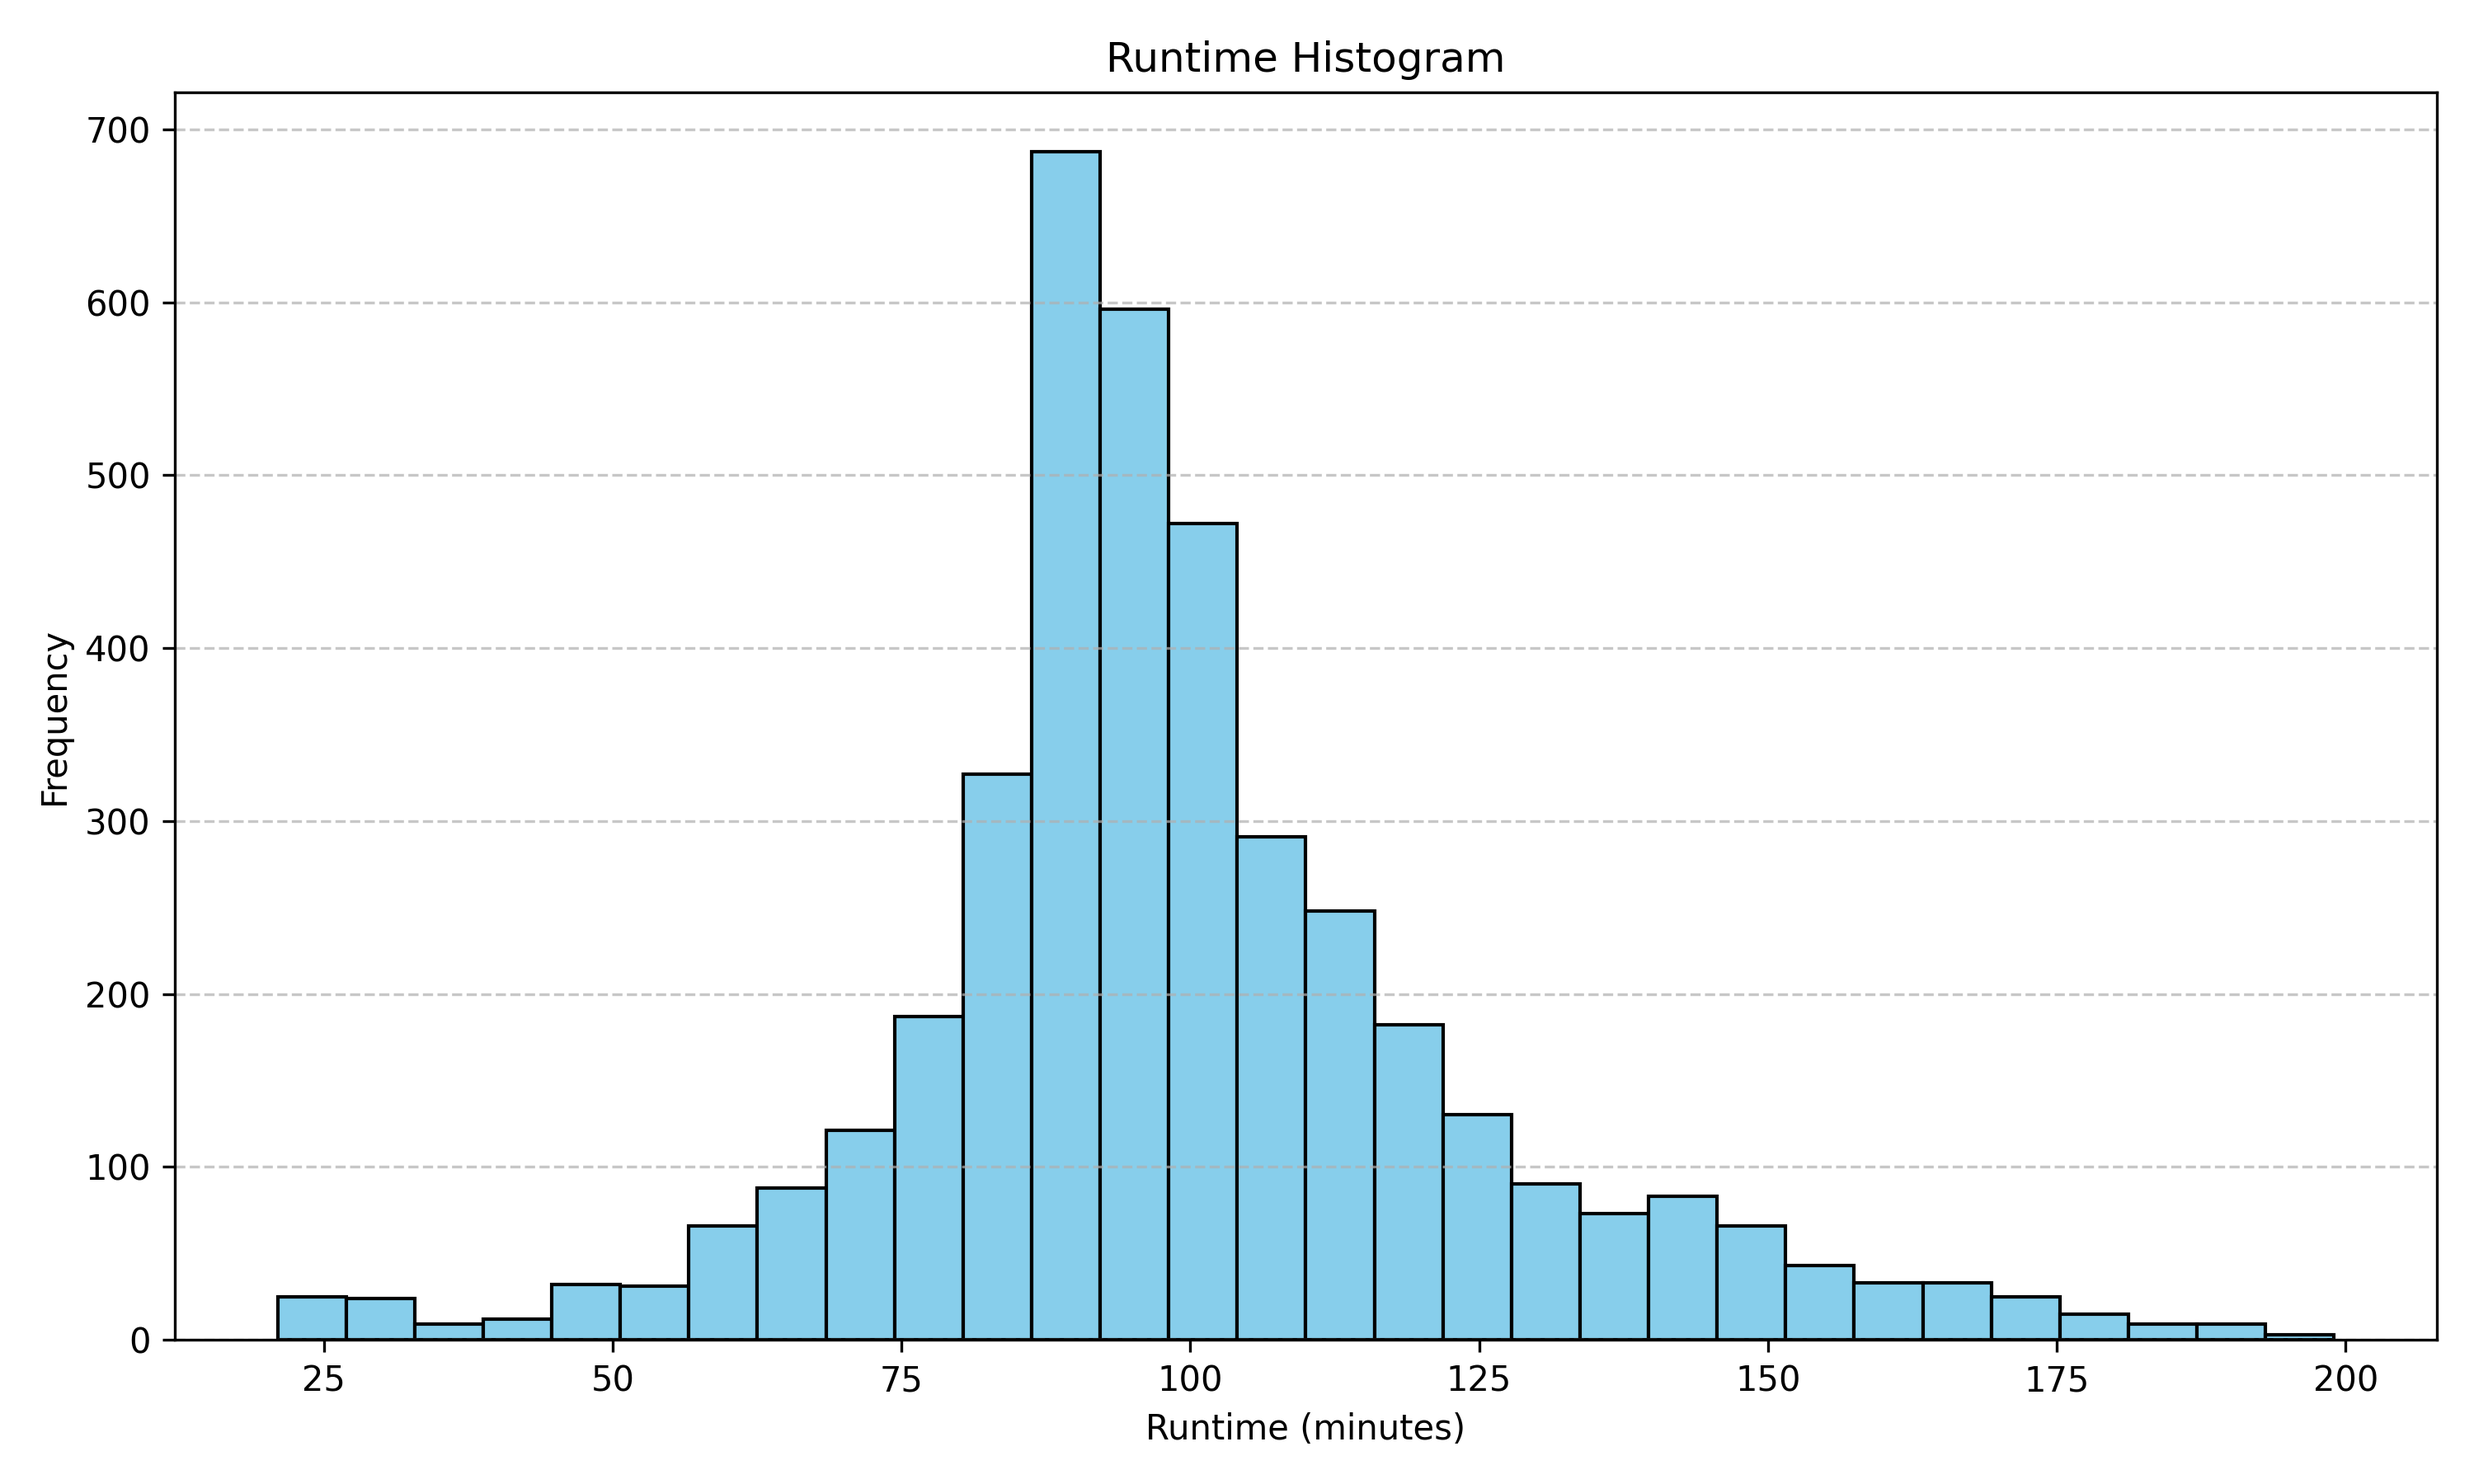
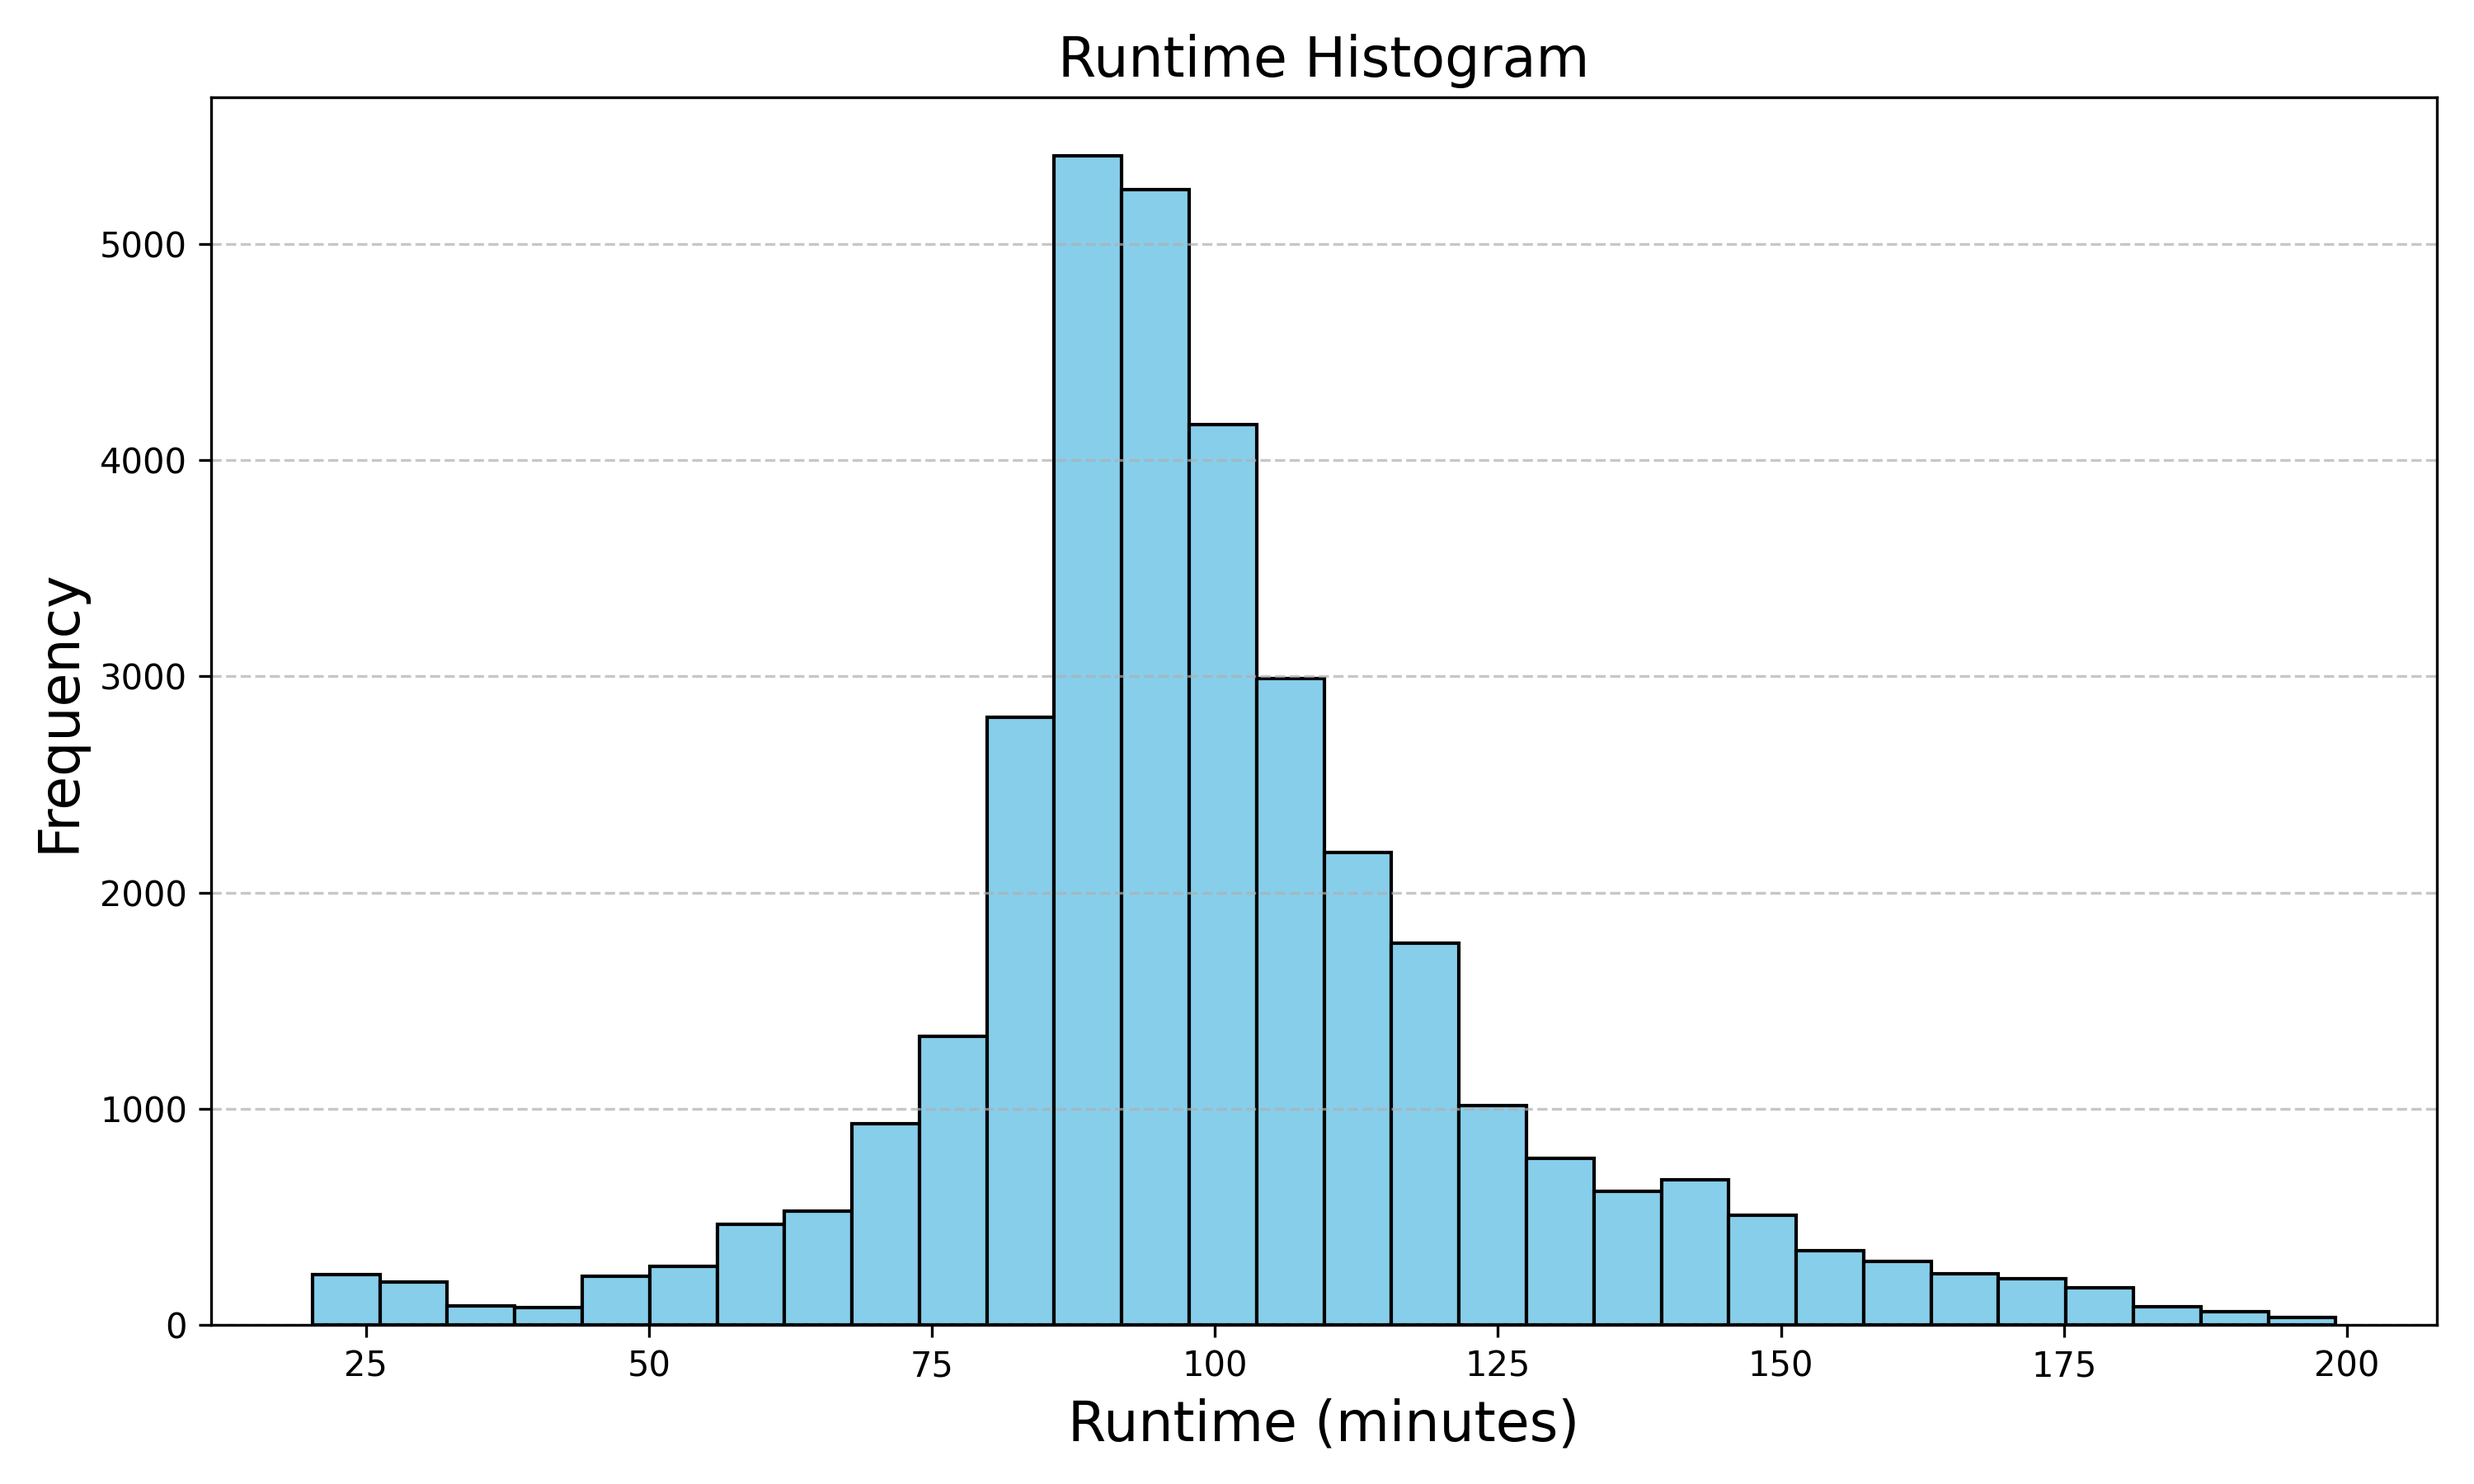
update

Changed region(s): [[0.0, 0.0311, 0.992, 0.9956]]

diff --git a/src/data_process/stat_plot.py b/src/data_process/stat_plot.py
@@ -6,6 +6,15 @@ import re
 from collections import Counter
 from pathlib import Path
 
+STOPWORDS=[
+    "the", "a", "an", "of", "in", "on", "at", "for", "to", "and", "or", "is",
+    "are", "was", "were", "be", "been", "being", "with", "by", "from", "as",
+    "that", "this", "it", "its", "into", "about", "after", "before", "over",
+    "under", "up", "down", "out", "through", "but", "so", "if", "then", "than",
+    "there", "here", "him", "her", "his", "hers", "they", "them", "their",
+    "we", "us", "our", "you", "your", "i", "me", "my"
+]
+
 def word_cloud(
     data
 ):
@@ -28,7 +37,7 @@ def word_cloud(
         width=width,
         height=height,
         max_words=max_words,
-        stopwords=None, 
+        stopwords=STOPWORDS, 
         collocations=False
     ).generate(combined_text)
 
@@ -36,16 +45,17 @@ def word_cloud(
     plt.imshow(wc, interpolation="bilinear")
     plt.axis("off")
     plt.tight_layout()
-    plt.savefig(f"{PLOT_DIR}/wordcloud.png")
+    plt.savefig(f"{FIG_DIR}/wordcloud.png")
 
 
 def summ_len_hist(data, bins=40, title="Word Count Histogram"):
     summary_list=[x['summary'] for x in data]
     raw_word_counts = [len(s.split(" ")) for s in summary_list]
-    word_counts = []
-    for x in raw_word_counts:
-        if x<=MAX_WORDS and x>=MIN_WORDS:
-            word_counts.append(x)
+    word_counts = raw_word_counts
+    # word_counts = []
+    # for x in raw_word_counts:
+    #     if x<=MAX_WORDS and x>=MIN_WORDS:
+    #         word_counts.append(x)
             
     print(f"Total valid sentences: {len(word_counts)}")
     print(f"Average word count: {sum(word_counts)/len(word_counts):.2f}")
@@ -53,12 +63,12 @@ def summ_len_hist(data, bins=40, title="Word Count Histogram"):
 
     plt.figure(figsize=(10, 6))
     plt.hist(word_counts, bins=bins, color="skyblue", edgecolor="black")
-    plt.title(title)
-    plt.xlabel("Number of words per string")
-    plt.ylabel("Frequency")
+    plt.title(title,fontsize=16)
+    plt.xlabel("Number of words per string",fontsize=16)
+    plt.ylabel("Frequency",fontsize=16)
     plt.grid(axis="y", linestyle="--", alpha=0.7)
     plt.tight_layout()
-    output_path=f"{PLOT_DIR}/summary_length_histogram.png"
+    output_path=f"{FIG_DIR}/summary_length_histogram.png"
     plt.savefig(output_path, dpi=300)
 
 
@@ -89,7 +99,6 @@ def release_year_hist(data):
     labels = sorted(grouped_counts.keys(), key=lambda x: int(x.split('-')[0]))
     values = [grouped_counts[l] for l in labels]
     title="Release Year Histogram"
-    # 打印统计信息
     print(f"Total entries: {len(strings)}")
     print(f"Valid years: {len(years)}")
     print(f"Range: {min(years)} - {max(years)}")
@@ -98,12 +107,12 @@ def release_year_hist(data):
     plt.figure(figsize=(8, 5))
     plt.bar(labels, values, color="skyblue", edgecolor="black", width=0.8)
     plt.xticks(rotation=45, ha='right')
-    plt.title(title)
-    plt.xlabel("5-Year Range")
-    plt.ylabel("Count")
+    plt.title(title,fontsize=16)
+    plt.xlabel("5-Year Range",fontsize=16)
+    plt.ylabel("Count",fontsize=16)
     plt.grid(axis="y", linestyle="--", alpha=0.7)
     plt.tight_layout()
-    output_path=f"{PLOT_DIR}/release_year_histogram.png"
+    output_path=f"{FIG_DIR}/release_year_histogram.png"
     plt.savefig(output_path, dpi=300)
     
 
@@ -121,15 +130,15 @@ def run_time_hist(data):
     print(f"Total entries: {len(data)}")
     print(f"Valid runtimes: {len(run_times)}")
     print(f"Range: {min(run_times)} - {max(run_times)}")
-
+    
     plt.figure(figsize=(10, 6))
     plt.hist(run_times, bins=30, color="skyblue", edgecolor="black")
-    plt.title("Runtime Histogram")
-    plt.xlabel("Runtime (minutes)")
-    plt.ylabel("Frequency")
+    plt.title("Runtime Histogram",fontsize=16)
+    plt.xlabel("Runtime (minutes)",fontsize=16)
+    plt.ylabel("Frequency",fontsize=16)
     plt.grid(axis="y", linestyle="--", alpha=0.7)
     plt.tight_layout()
-    output_path=f"{PLOT_DIR}/runtime_histogram.png"
+    output_path=f"{FIG_DIR}/runtime_histogram.png"
     plt.savefig(output_path, dpi=300)
 
 
@@ -144,6 +153,24 @@ def genre_hist(data):
 
     print(dict(sorted(info_dict.items(), key=lambda x: x[1], reverse=True)))
 
+    
+    sorted_items = sorted(info_dict.items(), key=lambda x: x[1], reverse=True)[:15]
+    genres = [k for k, v in sorted_items]
+    counts = [v for k, v in sorted_items]
+
+    plt.figure(figsize=(10, 6))
+    plt.bar(genres, counts, color="skyblue", edgecolor="black",)
+
+    plt.xlabel("Genre",fontsize=16)
+    plt.ylabel("Count",fontsize=16)
+    plt.title("Number of Movies per Genre",fontsize=16)
+
+    plt.xticks(rotation=45, ha="right",fontsize=13) 
+    plt.grid(axis="y", linestyle="--", alpha=0.7)
+    plt.tight_layout()    
+
+    output_path=f"{FIG_DIR}/genre_histogram.png"
+    plt.savefig(output_path, dpi=300)
 
 
 def lang_hist(data):
@@ -156,27 +183,66 @@ def lang_hist(data):
                 info_dict[g]=1
 
     print(dict(sorted(info_dict.items(), key=lambda x: x[1], reverse=True)))
+    
+    sorted_items = sorted(info_dict.items(), key=lambda x: x[1], reverse=True)[:15]
+    languages = [k.replace(" Language","") for k, v in sorted_items]
+    counts = [v for k, v in sorted_items]
+
+    plt.figure(figsize=(10, 6))
+    plt.bar(languages, counts, color="skyblue", edgecolor="black",)
+
+    plt.xlabel("Language",fontsize=16)
+    plt.ylabel("Count",fontsize=16)
+    plt.title("Number of Movies per Language",fontsize=16)
+
+    plt.xticks(rotation=45, ha="right",fontsize=13) 
+    plt.grid(axis="y", linestyle="--", alpha=0.7)
+    plt.tight_layout()    
+
+    output_path=f"{FIG_DIR}/language_histogram.png"
+    plt.savefig(output_path, dpi=300)
 
 
 def country_hist(data):
     info_dict={}
     for x in data:
         for g in x["countries"]:
+            if g=="United States of America":
+                g="USA"
             if g in info_dict:
                 info_dict[g]+=1
             else:
                 info_dict[g]=1
 
     print(dict(sorted(info_dict.items(), key=lambda x: x[1], reverse=True)))
+    
+    sorted_items = sorted(info_dict.items(), key=lambda x: x[1], reverse=True)[:15]
+    countries = [k for k, v in sorted_items]
+    counts = [v for k, v in sorted_items]
+
+    plt.figure(figsize=(10, 6))
+    plt.bar(countries, counts, color="skyblue", edgecolor="black",)
+
+    plt.xlabel("Country",fontsize=16)
+    plt.ylabel("Count",fontsize=16)
+    plt.title("Number of Movies per Country",fontsize=16)
+
+    plt.xticks(rotation=45, ha="right",fontsize=13) 
+    plt.grid(axis="y", linestyle="--", alpha=0.7)
+    plt.tight_layout()    
+
+    output_path=f"{FIG_DIR}/country_histogram.png"
+    plt.savefig(output_path, dpi=300)
+    
 
 
 if __name__ == "__main__":
-    PLOT_DIR="assets/figures"
+    FIG_DIR="assets/figures"
     MIN_WORDS=10
     MAX_WORDS=1000
     MIN_RUN_TIME=20
     MAX_RUN_TIME=200
-    os.makedirs(PLOT_DIR, exist_ok=True)
+    os.makedirs(FIG_DIR, exist_ok=True)
     
     import json
     path_list=[Path(f"data/{x}") for x in sorted(os.listdir("data")) if x.startswith("all_movie_info") and x.endswith(".json")]
@@ -186,10 +252,10 @@ if __name__ == "__main__":
             data.extend(json.load(f))
 
     # word_cloud(data)
-    # summ_len_hist(data)
+    summ_len_hist(data)
     # release_year_hist(data)
     # run_time_hist(data)
-    genre_hist(data)
-    lang_hist(data)
-    country_hist(data)
+    # genre_hist(data)
+    # lang_hist(data)
+    # country_hist(data)
     
